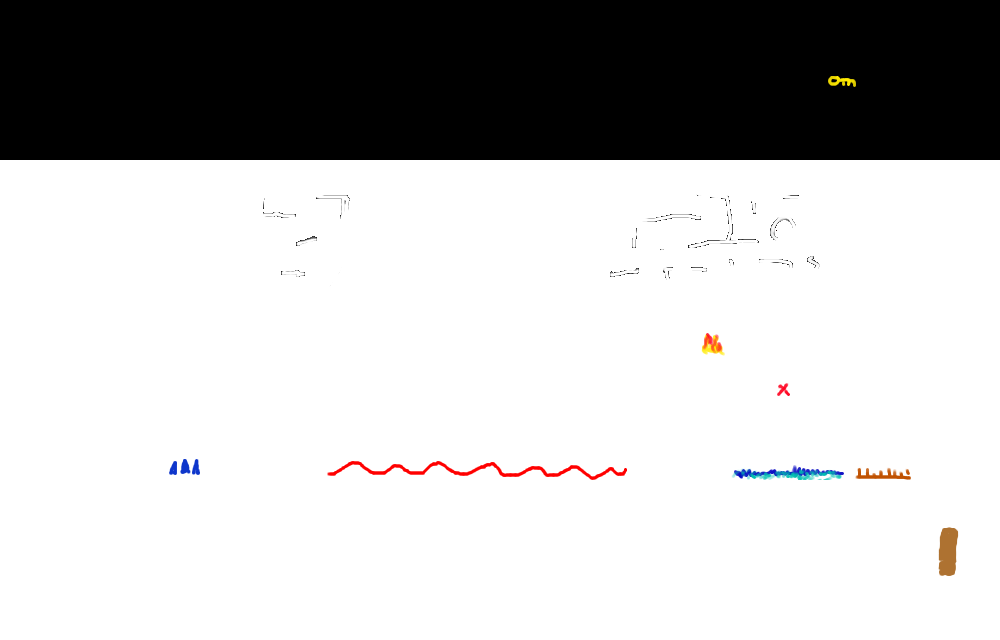
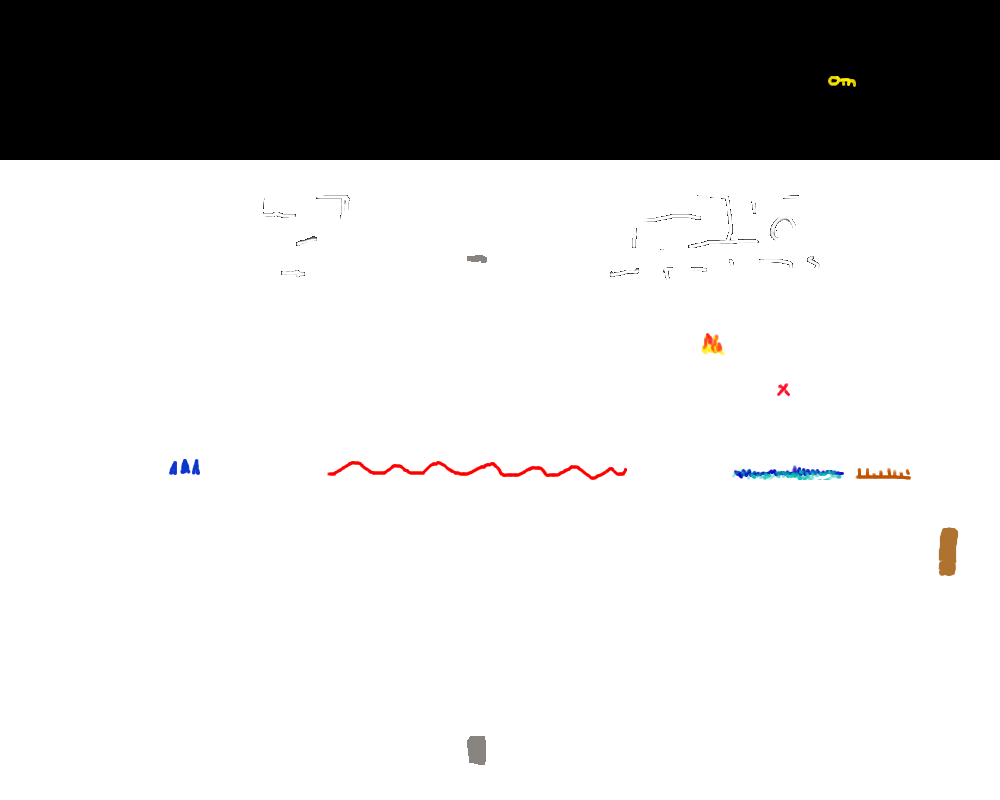
Added top layer

diff --git a/graphics.js b/graphics.js
@@ -8,6 +8,7 @@ var graphics = new( function() {
     self.init = function() {
     	// bgCanvas holds the background (used for draw updates)
     	self.bgCanvas = document.createElement('canvas');
+    	self.topCanvas = document.createElement('canvas');
     
 		self.getDocumentCanvas(1);
 		self.canvasWidth = self.levelCanvas.width;
@@ -18,22 +19,31 @@ var graphics = new( function() {
     }
     
     self.draw = function(dt) {
-	var dts = dt/1000;
-    
-	if ((self.playerInterpolatedX >=0) && (self.playerInterpolatedX+player.width<=self.canvasWidth) && (self.playerInterpolatedY>=0) && (self.playerInterpolatedY+player.height<=self.canvasHeight))
-	    self.levelContext.drawImage(graphics.bgCanvas, self.playerInterpolatedX, self.playerInterpolatedY, player.width, player.height, self.playerInterpolatedX, self.playerInterpolatedY, player.width, player.height); 
-
-	self.playerInterpolatedX = Math.floor(player.x+player.speedRight*dts + 0.5);
-	self.playerInterpolatedY = Math.floor(player.y-player.speedUp*dts + 0.5);
-    
-	if ((self.playerInterpolatedX>=0) && (self.playerInterpolatedX+player.width<=self.canvasWidth) && (self.playerInterpolatedY>=0) && (self.playerInterpolatedY+player.height<=self.canvasHeight)) {
-	    self.levelContext.drawImage(assets.walkerImage, player.frame*player.width, 0, player.width, player.height, self.playerInterpolatedX, self.playerInterpolatedY, player.width, player.height);
-	}
+		var dts = dt/1000;
+		
+		var newX = Math.floor(player.x+player.speedRight*dts + 0.5);
+	    var newY = Math.floor(player.y-player.speedUp*dts + 0.5);
+	    
+	    if (newX != self.playerInterpolatedX || newY != self.playerInterpolatedY) {
+			if ((self.playerInterpolatedX >=0) && (self.playerInterpolatedX+player.width<=self.canvasWidth) && (self.playerInterpolatedY>=0) && (self.playerInterpolatedY+player.height<=self.canvasHeight)) {
+			    self.levelContext.drawImage(graphics.bgCanvas, self.playerInterpolatedX, self.playerInterpolatedY, player.width, player.height, self.playerInterpolatedX, self.playerInterpolatedY, player.width, player.height);
+			    self.levelContext.drawImage(graphics.topCanvas, self.playerInterpolatedX, self.playerInterpolatedY, player.width, player.height, self.playerInterpolatedX, self.playerInterpolatedY, player.width, player.height);
+			}
+			
+			self.playerInterpolatedX = newX;
+			self.playerInterpolatedY = newY;
+		    
+			if ((self.playerInterpolatedX>=0) && (self.playerInterpolatedX+player.width<=self.canvasWidth) && (self.playerInterpolatedY>=0) && (self.playerInterpolatedY+player.height<=self.canvasHeight)) {
+			    self.levelContext.drawImage(assets.walkerImage, player.frame*player.width, 0, player.width, player.height, self.playerInterpolatedX, self.playerInterpolatedY, player.width, player.height);
+				self.levelContext.drawImage(graphics.topCanvas, self.playerInterpolatedX, self.playerInterpolatedY, player.width, player.height, self.playerInterpolatedX, self.playerInterpolatedY, player.width, player.height);
+			}
+		}
     
     }
 
     self.paintBackground = function() {
 		self.levelContext.drawImage(graphics.bgCanvas,0,0);
+		self.levelContext.drawImage(graphics.topCanvas,0,0);
     }
     
     self.updateAnimation = function(dt) {

diff --git a/levels.js b/levels.js
@@ -21,6 +21,12 @@ var Level = new( function () {
 	    bgContext.drawImage(assets.levelImage,0,gH * 1, gW, gH, 0,0, gW, gH);
 	    bgContext.drawImage(assets.levelImage,0,gH * 2, gW, gH, 0,0, gW, gH);
 	    bgContext.drawImage(assets.levelImage,0,gH * 3, gW, gH, 0,0, gW, gH);
+	    
+	    // generate the top layer
+	    var topContext = graphics.topCanvas.getContext('2d');
+	    graphics.topCanvas.width = gW;
+	    graphics.topCanvas.height = gH;
+	    topContext.drawImage(assets.levelImage,0,gH*4, gW, gH, 0,0, gW, gH);
 
 		// get the collision data
 		var originalCanvas = document.createElement('canvas');
